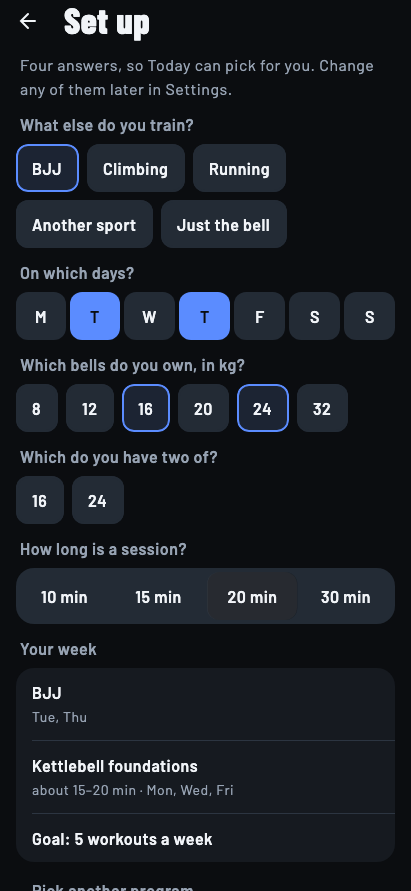
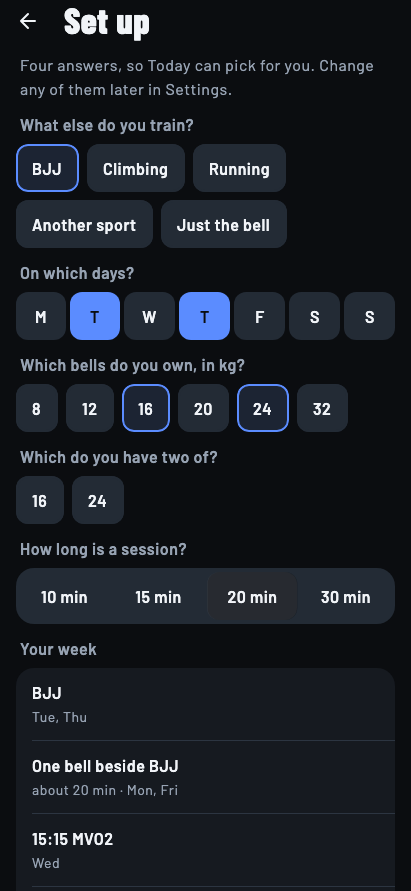
Docs: README screenshots and features caught up
Every screenshot is a fresh render of the app with a seeded week. The Timer's describe sheet is gone (removed on Nov 16), so its screenshot is replaced by a time cap running, with Round done and the round's pace. The features add Live Activities, the live heart-rate zones and a class recorded on a Polar sensor, logging after the fact and moving a plan, density blocks, a program day in a free session, tests, the exercise's progress line, and 15:15's snatches in Lift; the counts follow (27 programs offered, 134 exercises, 9 flows, export schema 15, AppDatabase v20, LiftDatabase v18, Compose 1.13.0-rc01, Toolchain 0.14).

Changed region(s): [[0.0584, 0.8485, 0.5255, 1.0], [0.5255, 0.8788, 0.5547, 0.9091]]

diff --git a/README.md b/README.md
@@ -6,8 +6,8 @@
 Built with **Compose Multiplatform** for **Android**, **iOS**, and **Desktop (JVM)**, powered by the **Kotlin Toolchain** (Amper-based).
 
 [![Kotlin Multiplatform](https://img.shields.io/badge/Kotlin_Multiplatform-Android_|_iOS_|_Desktop-7F52FF?logo=kotlin&logoColor=white)](https://kotlinlang.org/docs/multiplatform.html)
-[![Compose Multiplatform](https://img.shields.io/badge/Compose_Multiplatform-1.12.1-4285F4?logo=jetpackcompose&logoColor=white)](https://www.jetbrains.com/lp/compose-multiplatform/)
-[![Build System](https://img.shields.io/badge/Build_System-Kotlin_Toolchain_0.13_(Amper)-0095D5)](https://kotlin-toolchain.org/0.13/)
+[![Compose Multiplatform](https://img.shields.io/badge/Compose_Multiplatform-1.13.0--rc01-4285F4?logo=jetpackcompose&logoColor=white)](https://www.jetbrains.com/lp/compose-multiplatform/)
+[![Build System](https://img.shields.io/badge/Build_System-Kotlin_Toolchain_0.14_(Amper)-0095D5)](https://kotlin-toolchain.org/0.13/)
 [![Zero Gradle](https://img.shields.io/badge/Gradle-Zero_Daemon_|_Zero_Scripts-brightgreen)](#prerequisites)
 [![Privacy First](https://img.shields.io/badge/Privacy-100%25_Offline_|_No_Tracking-success)](#-privacy-first--offline)
 [![License: MIT](https://img.shields.io/badge/License-MIT-blue.svg)](LICENSE)
@@ -45,15 +45,15 @@ Built with **Compose Multiplatform** for **Android**, **iOS**, and **Desktop (JV
 
 ### ⏱ The Timer, the workout & Lift's session
 
-| The Timer | Describe it in words | The running workout | The summary |
+| The Timer | A time cap | The running workout | The summary |
 |:---:|:---:|:---:|:---:|
-| <img src="docs/screenshots/07_timer.png" width="200" alt="Timer"/> | <img src="docs/screenshots/08_describe.png" width="200" alt="Describe a workout"/> | <img src="docs/screenshots/09_workout.png" width="200" alt="Running workout"/> | <img src="docs/screenshots/10_summary.png" width="200" alt="Workout summary"/> |
-| *Work, rest, rounds, sets, warm-up and cool-down, with the total and a calorie estimate* | *Type "40/20 x8 rower, 5 min warm-up" and use what it reads* | *The phase, the clock, the round and what comes next* | *Time, rounds and calories, then "How was it?" and a note* |
+| <img src="docs/screenshots/07_timer.png" width="200" alt="Timer"/> | <img src="docs/screenshots/08_cap.png" width="200" alt="A time cap running"/> | <img src="docs/screenshots/09_workout.png" width="200" alt="Running workout"/> | <img src="docs/screenshots/10_summary.png" width="200" alt="Workout summary"/> |
+| *Work, rest, rounds, sets, warm-up and cool-down, with the total and a calorie estimate* | *As many rounds as you can: tap Round done, with the pace of the round under way* | *The phase, the clock, the round and what comes next* | *Time, rounds and calories, then "How was it?" and a note* |
 
 | Lift: an EMOM running | Exercise library | An exercise shown by a figure | Tablet & desktop |
 |:---:|:---:|:---:|:---:|
 | <img src="docs/screenshots/11_lift_emom.png" width="200" alt="EMOM in a Lift session"/> | <img src="docs/screenshots/14_library.png" width="200" alt="Exercise library"/> | <img src="docs/screenshots/15_exercise.png" width="200" alt="Turkish get-up, shown by a figure"/> | <img src="docs/screenshots/16_tablet_today.png" width="320" alt="Today on a tablet"/> |
-| *The Armor Building Complex, a pair of bells every minute* | *102 lifts across kettlebell, barbell, bodyweight, band and mat* | *A rep animated beside its cues, step by step* | *A navigation rail and two columns on a wide window* |
+| *The Armor Building Complex, a pair of bells every minute* | *134 lifts across kettlebell, barbell, bodyweight, band and mat* | *A rep animated beside its cues, step by step* | *A navigation rail and two columns on a wide window* |
 
 ---
 
@@ -72,40 +72,42 @@ Built with **Compose Multiplatform** for **Android**, **iOS**, and **Desktop (JV
   - **Multi-Block Sequences**: Chain multiple blocks back-to-back — each with its own work, rest, rounds, sets, and ladder, plus rest between blocks — built in the visual block editor or straight from the Timer.
   - **Time Caps**: As many rounds as you can in so many minutes, on the Timer or as any block of a sequence. Tap **Round done** as each round ends to see the rounds roll up, the pace of the round under way beside the average, and the best of the same workout; the summary and the Log keep every round's time.
 - **Warm-Up & Cool-Down**: Optional warm-up before rounds and cool-down stretch after, configured on the Timer, in presets, or in plain text.
-- **Natural Language Parsing**: Describe workouts in plain English (e.g., `"5 min warm-up, 40/20 x8 on rower, 3 min cool down"`, `"4 sets of 8 rounds 20/10, 1:00 between"`, `"ladder 20 to 60 by 10"`, `"15:15 mvo2"`, `"hangboard 7/3 x6"`).
-- **Built-in & Custom Presets**: built-in protocols (*Tabata*, *HIIT 30/30*, *Hangboard*, *Long efforts*, Kenneth Jay's *15:15 MVO2* kettlebell snatch protocol, and a *20-minute cap*) alongside your own single-block presets and sequences, listed shortest first. A kettlebell preset can call every work after the first "Switch hands. Work" (15:15 MVO2 does).
+- **Built-in & Custom Presets**: built-in protocols (*Tabata*, *HIIT 30/30*, *Hangboard*, *Long efforts*, *Swings on the minute*, *Mat rounds*, Kenneth Jay's *15:15 MVO2* kettlebell snatch protocol, and a *20-minute cap*) alongside your own single-block presets and sequences, listed shortest first. A kettlebell preset can call every work after the first "Switch hands. Work" (15:15 MVO2 does), and asks on its summary about how many snatches a set, which Lift counts with its own sets.
 - **Audio & Haptic Cues**: High-contrast audible beeps, spoken cues via system text-to-speech (including set numbers, block transitions, and rest between sets/blocks), halfway warnings, and vibration pulses.
-- **Android 16 Live Updates & Background Persistence**: Running workouts and rest timers display as interactive status-bar chips with real-time countdowns and per-round, per-set, or per-block progress bars on the lock screen. Android uses a foreground service with lock-screen Pause/End controls; iOS schedules local notifications ahead per phase transition.
+- **Live Updates, Live Activities & Background Persistence**: On Android 16, running workouts and Lift's timers show as status-bar chips with real-time countdowns and per-round, per-set, or per-block progress on the lock screen, from a foreground service with Pause/End controls. On iOS they are Live Activities on the Lock Screen and in the Dynamic Island, with Pause/Resume and End, and local notifications scheduled ahead per phase change.
+- **Live Heart Rate (Android)**: With a Polar sensor paired, a workout shows the heart rate as a scale of the five zones under the ring, lighting the zone you are in and calling each change with a tone.
 - **Shortcuts & Home-Screen Widget**: Long-press app shortcuts on **Android and iOS** to quickly "Start a workout" or "Start a Lift session" without interrupting an active workout, plus an **Android Glance home-screen widget** showing your weekly goal ring, streak, and one-tap start actions (with Android 15+ widget picker previews).
 
 ### 🏋 Strength & Kettlebell Training (`Lift`)
-- **32 Built-in Programs & Custom Editor**: 32 programs across 6 training families (Beginner, Classic, Dan John including *Armor Building Formula*, *Easy Strength*, and *One-stop shop*, Grappling including *20 minutes beside BJJ*, Mixed, and Barbell), with an interactive block and rep-range editor. Two bells step up only to a weight you own two of.
+- **27 Built-in Programs & Custom Editor**: 27 programs across 6 training families (Beginner, Classic, Dan John including *Armor Building Formula*, *Easy Strength*, and *One-stop shop*, Grappling including *20 minutes beside BJJ* and *One bell beside BJJ*, Mixed, and Barbell), with an interactive block and rep-range editor. Two bells step up only to a weight you own two of. A **density block** is as many rounds of one lift as fit a time cap, and a free session can take a day of any program.
 - **Session Duration Estimates**: Displays estimated workout times (`"about 20 min"`, `"about 12–15 min"`) across Today, program cards, and day sheets — calculated from sets, reps, movement pace, EMOM minutes, and your configured rest between sets.
 - **Make It Yours**: Clone any built-in program into a customizable copy (`(yours)`) to modify rep ranges, timed holds, resistance bands, double bells, and schedules while keeping your current day and progression.
-- **Rep Progression & Balance Preview**: Programs build volume within a rep range before stepping up to the next bell or band; "Very hard" or "All out" exertion ratings hold step-ups back until approved. Program sheets preview weekly muscle balance and highlight untargeted groups.
-- **100+ Exercise Library & Loaded Carries**: 105 built-in movements across kettlebells (including 18/22/26/30 kg competition bells, half snatch, push press, and timed farmer's, suitcase, rack, and bottoms-up carries), barbell, bodyweight, bands, and mat Pilates, every one shown by an animated figure doing a rep beside its form cues, with best-per-session history charts, lifetime totals, best pace, and custom exercise creation.
+- **Rep Progression & Balance Preview**: Programs build volume within a rep range, then denser, then a harder lift at the same bell, before stepping up to the next bell or band; "Very hard" or "All out" exertion ratings hold step-ups back until approved. Program sheets preview weekly muscle balance and highlight untargeted groups.
+- **130+ Exercise Library & Loaded Carries**: 134 built-in movements across kettlebells (including 18/22/26/30 kg competition bells, half snatch, push press, and timed farmer's, suitcase, rack, and bottoms-up carries), barbell, bodyweight, bands, and mat Pilates, every one shown by an animated figure doing a rep beside its form cues, with a line of each session's best (weight × reps) over the latest 24, a dashed rule at each move to another bell, lifetime totals, best pace, and custom exercise creation.
 - **Session Tracking & Muscle Balance**: Log sets, loads (single/double bells, barbell plates, bodyweight + load, bands), reps, EMOM timers, hold clocks, and automatic rest intervals, with a 4-week balance card across 7 muscle groups separating primary and assisting volume.
 - **Screen-Off Timers, Survivability & PRs**: Android counts rests, EMOMs, and timed holds on the lock screen with Live Update chips, wake locks, and beeps; iOS posts local notifications when locked. Active sessions, timers, and drafts survive background process death, with automatic PR detection (including heaviest and longest carry records).
 
-- **Coaching, Worked Out From What You Log**: Lift weighs your grip (each set by its reps and how hard the lift is on the hands, BJJ days included) and warns when the week runs well past the weeks before. After a very hard session, BJJ on a heavy grip week, or an overreached grip, a program day offers an easier version before its first set. Before a big jump in bell it tightens the rest first (density), and challenges sit under the program: 10,000 swings, the snatch test, the Armor Building Complex's best twenty minutes, and a get-up at your body weight. Nothing extra is stored.
+- **Coaching, Worked Out From What You Log**: Lift weighs your grip (each set by its reps and how hard the lift is on the hands, BJJ days included) and warns when the week runs well past the weeks before. After a very hard session, BJJ on a heavy grip week, or an overreached grip, a program day offers an easier version before its first set. Before a big jump in bell it tightens the rest first (density), and challenges sit under the program: 10,000 swings, the snatch test, the Armor Building Complex's best twenty minutes, and a get-up at your body weight. **Tests** (the snatch test, the complex, the press, push-ups, pull-ups and the plank) are attempts done on purpose, charted against the last at the same bell. Nothing extra is stored.
 
 ### 🧘 Guided Mobility Flows
-- **5 Follow-Along Flows**: Two pre-training warm-ups (*Hips and shoulders* 8 min, *Wrists and fingers* 5 min) and three post-training or off-day flows (*Spine and hamstrings* 10 min, *Core on the mat* 11 min, *Full reset* 25 min).
-- **Move-by-Move Execution**: Preview every move's duration and cue on its sheet, then follow along on the workout screen with Hold/Move prompts, 10-second transitions between moves, 5-second side switches, spoken move and side announcements, and Live Update notifications — leaving your Timer settings untouched.
+- **9 Follow-Along Flows**: Four before training (*Hips and shoulders* 8 min, *Wrists and fingers* 5 min, *Core for falls* 6 min, *Before rolling* 9 min) and five after or on a day off (*Daily five* 5 min, *Spine and hamstrings* 10 min, *Core on the mat* 11 min, *After rolling* 12 min, and *Full reset*).
+- **Move-by-Move Execution**: Preview every move's duration and cue on its sheet, then follow along on the workout screen with Hold/Move prompts, a move that is one of Lift's exercises shown by its animated figure, 10-second transitions between moves, 5-second side switches, spoken move and side announcements, and Live Update notifications — leaving your Timer settings untouched.
 - **Build Your Own**: Make flows from the library's mat moves and floor holds, or moves typed in, each timed in five-second steps, one side at a time or not. Any shipped flow can be copied with "Make it yours".
 - **Smart Today Pairing & Stretching Sync**: Automatically leads Today with a pre-class flow on sport days (*Wrists and fingers* before climbing, *Before rolling* before BJJ, *Hips and shoulders* before running), offers time-matched flows in "Or pick by time", tracks mobility count in weekly summaries, and writes sessions to Apple Health and Health Connect as stretching.
 
 ### 📅 The Log, Sport Days & Health Sync
 - **Sport Days & Off-App Training**: Plan classes and days away from the app (BJJ, Climbing, Running, or any custom sport) weekly or on specific dates. One-tap **"Log it"** from Today or the Log (including past days, with Undo) counts toward your weekly goal, streak, and widget, while unlogged class days are never penalized as missed workouts.
+- **A Class on a Heart-Rate Sensor (Android 12+)**: Pair a Polar Verity Sense in Settings, tap **Record class** on a class day and leave the phone in the bag; **Sync class** afterwards logs the day and opens the class: its heart rate drawn with each round shaded, average and peak, and a row a round with how far the heart rate fell in the minute after.
+- **Log After the Fact & Move a Plan**: "Log a workout" on any day's sheet logs a preset, a flow, a sport day or the program's next day done as planned, with Undo. A missed plan has **Move** and today's has **Not today**, to a free day of the week ahead; the day it left reads "Moved to Saturday", not Missed.
 - **One Training Log (`Log`)**: Each kind of workout (strength, conditioning, mobility, sport days) done this week against its plan, what is coming up as a schedule, a month calendar of done, planned and missed days, all-time totals, weekly goals, and streaks.
 - **Post-Workout Reflection ("How was it?")**: Log perceived exertion (Easy, Steady, Hard, Very hard, All out) and a note upon completing any workout or Lift session; reflected in history, share sheets, exports, Apple Health, and Health Connect.
-- **Routines & Reminders**: Schedule recurring interval workouts, Lift program days, and sport days by weekday with reboot-resilient, self-extending daily reminders.
+- **Routines & Reminders**: Schedule recurring interval workouts, Lift program days, and sport days by weekday, or in words (`"tabata mon wed fri"`, `"8 × 20/10 then 5 × 1:00/0:30 mon"`), with reboot-resilient, self-extending daily reminders.
 - **Health Platform Sync (Apple Health & Health Connect)**: Dynamic calorie estimates based on activity, duration, and body weight. Syncs completed workouts, mobility flows, and Lift sessions (with intervals/sets, pauses, calories, and effort notes) to Apple Health (iOS) and Health Connect (Android), and reads smartwatch average/peak heart rate and 30-day scale weight on opt-in.
 
 ### 🔒 Privacy-First & Offline
 - **Zero Tracking**: No accounts, no sign-ups, no ads, and zero analytics or telemetry.
 - **Local SQLite Storage**: Encapsulated Room multiplatform databases running locally on device storage with atomic transactions and foreign-key integrity.
-- **Full Data Ownership & Portability**: Export your entire workout history, sport days, presets, sequences, routines, settings, Lift sessions, programs, exercises, and gear to versioned JSON (schema 10), and import files from schemas 1–10 safely with duplicate prevention and domain range validation.
+- **Full Data Ownership & Portability**: Export your entire workout history, sport days, presets, sequences, routines, settings, Lift sessions, programs, exercises, gear, your own flows, and recorded classes to versioned JSON (schema 15), and import files from schemas 1–15 safely with duplicate prevention and domain range validation.
 - **Android Backup Support**: Native integration with Android system backup and device-to-device migration.
 - **Accessibility**: Semantic headings, full TalkBack and VoiceOver navigation, and reduced-motion mode.
 
@@ -131,12 +133,12 @@ interval/
 │
 ├── interval/            # Conditioning, mobility, Today & history
 │   ├── interval-domain/       # Timer engine, multi-block courses, mobility flows, sport days, calories, parsers
-│   ├── interval-data/         # Room database (AppDatabase v15), DataStore settings, per-store repositories
+│   ├── interval-data/         # Room database (AppDatabase v20), DataStore settings, per-store repositories
 │   ├── interval-platform-api/ # What features ask of the platform: cue player, workout off screen, reminders
-│   ├── interval-platform/     # Audio/speech cues, Android Foreground Service, iOS notifications
+│   ├── interval-platform/     # Audio/speech cues, Android Foreground Service, iOS notifications, the Polar sensor
 │   ├── interval-ui/           # Shared workout widgets, Timeline, PhaseColors, animated Splash
 │   ├── interval-testing/      # FakeStorage, RecordingCuePlayer, fake DAOs, in-memory stores
-│   ├── interval-timer/        # Precision Timer page and natural language describe sheet
+│   ├── interval-timer/        # Precision Timer page, time caps and sequences
 │   ├── interval-workout/      # Live workout & flow screen, circular countdown readout, summaries
 │   ├── interval-presets/      # Train's Conditioning pillar: presets, sequence block editor, custom cards
 │   ├── interval-mobility/     # Train's Mobility pillar: the flows, their sheets, and the editor of your own
@@ -146,7 +148,7 @@ interval/
 ├── lift/                # Lift, the strength side (code in dev.justinsmith.lift)
 │   ├── lift-domain/     # Exercises, programs, estimates, starter program, clocks, PRs, grip, readiness & challenges
 │   ├── lift-api/        # The ports between sides (LiftActivity, IntervalActivity)
-│   ├── lift-data/       # Room database (LiftDatabase v17), per-store repositories
+│   ├── lift-data/       # Room database (LiftDatabase v18), per-store repositories
 │   ├── lift-platform/   # Beeper, TimerService keep-alive, platform Koin module
 │   ├── lift-ui/         # Lift widgets, exercise formatters, BalanceBars, cues mapping
 │   ├── lift-testing/    # FakeLiftStorage, RecordingBeeper, LiftTestClock, fake DAOs
